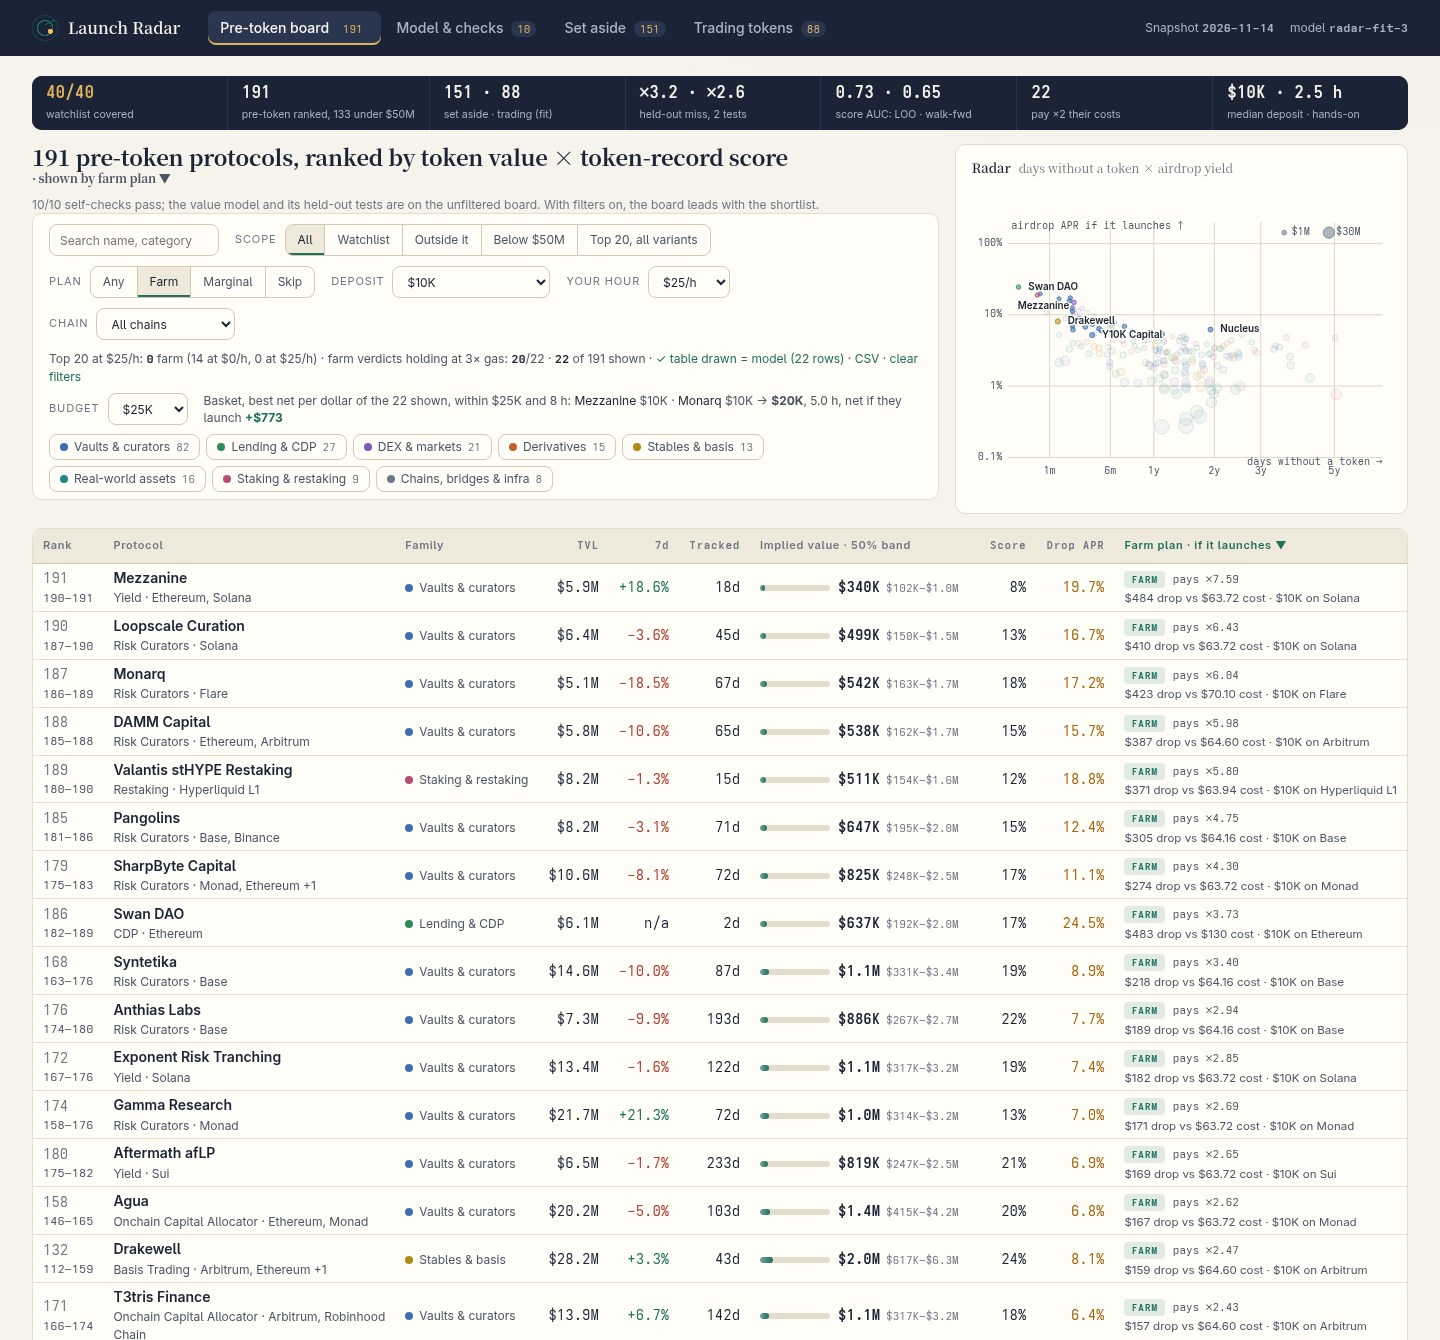
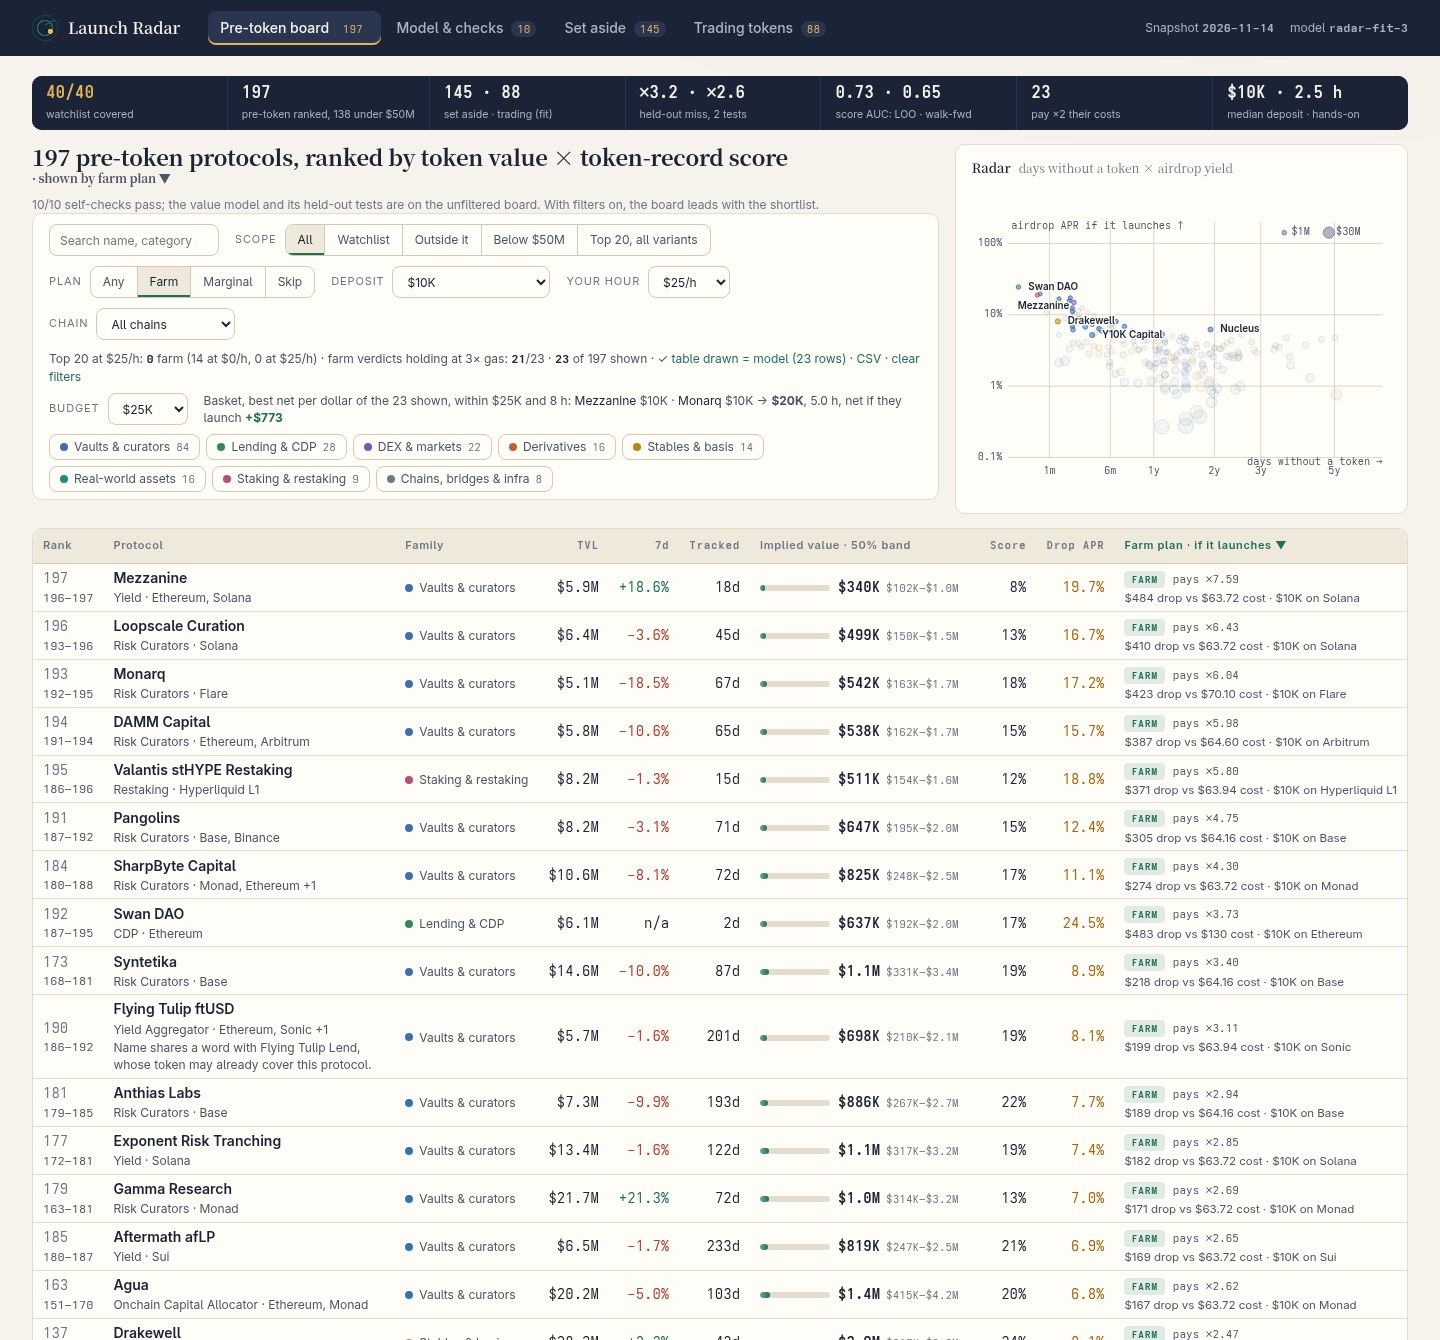
Coverage: rank first-word siblings of tokened protocols (our own rule, beyond the house rule) with a visible may-share-a-token flag; 197 ranked, 138 below the floor

Changed region(s): [[0.5, 0.7343, 0.9375, 1.0], [0.0312, 0.7343, 0.4688, 1.0], [0.4375, 0.2448, 0.625, 0.2754]]

diff --git a/dashboard/app.js b/dashboard/app.js
@@ -1,6 +1,4 @@
-/* Launch Radar. Audit route: (1) screen = board.json: model.js digest() hashes rank, name, value and every
-* plan step; the cover compares it on load. (2) termTests() scores each value term held out three ways.
-* (3) farmPlan() costs and times every step, kill test first. No launch dates, so no timing claim. */
+/* Launch Radar. The page checks the board digest and shows held-out model results. */
 (function () {
  'use strict';
  const R = window.RadarModel, S = window.SNAPSHOT, app = document.getElementById('app');
@@ -11,6 +9,7 @@
  const FAM = {}; R.FAMILIES.forEach((f) => { FAM[f[0]] = f[1]; });
  const bySlug = Object.create(null); rows.forEach((r) => { bySlug[r.p.slug] = r; });
  const esc = (s) => String(s).replace(/[&<>"']/g, (c) => ({ '&': '&amp;', '<': '&lt;', '>': '&gt;', '"': '&quot;', "'": '&#39;' })[c]);
+ const nameFlag = (r) => r.wordMatch ? `<small>Name shares a word with ${esc(r.wordMatch)}, whose token may already cover this protocol.</small>` : '';
  const pct = (x, d) => (x == null ? 'n/a' : (x > 0 ? '+' : x < 0 ? '−' : '') + Math.abs(x).toFixed(d == null ? 1 : d) + '%');
  const mult = (x) => '×' + (x >= 10 ? x.toFixed(1) : x >= 1 ? x.toFixed(2) : x.toFixed(3));
  const days = (d) => (d == null ? '?' : d >= 365 ? (d / 365).toFixed(1) + 'y' : d + 'd');
@@ -134,7 +133,7 @@
  const [flatT, spotT, sizeT] = fit.tests.terms;
  const nTr = S.protocols.filter((p) => p.mcap_usd > 0).length, nAll = rows.length + radar.products.length + nTr + radar.listed_only;
  const CHECKS = [
-  [nAll === S.protocols.length, `${nAll}/${S.protocols.length} protocols: ${rows.length} ranked, ${radar.products.length} set aside, ${nTr} trading (${fit.n} tokens), ${radar.listed_only} token without cap`],
+  [nAll === S.protocols.length, `${nAll}/${S.protocols.length} protocols: ${rows.length} ranked, ${radar.products.length} set aside, ${nTr} trading (${fit.n} in fit), ${radar.listed_only} with a token but no cap`],
   [S.watchlist.every((s) => bySlug[s]), `watchlist ${S.watchlist.filter((s) => bySlug[s]).length}/${S.watchlist.length} covered`],
   [rows.every((r, i) => r.rank === i + 1 && (!i || r.v.implied <= rows[i - 1].v.implied)), `ranks 1–${rows.length}, value never rising`],
   [rows.every((r) => r.p.gecko_id == null && r.p.symbol == null && r.p.mcap_usd == null), `${rows.length}/${rows.length} ranked rows record no token`],
@@ -171,7 +170,7 @@
    const w = Math.max(1.5, 100 * Math.sqrt(r.v.implied / maxImplied));
    return `<tr data-slug="${esc(r.p.slug)}" tabindex="0">
     <td class="rank">${r.rank}<small>${r.rlo}–${r.rhi}</small></td>
-    <td class="proto"><a href="${link({ p: r.p.slug })}">${esc(r.p.name)}</a>${r.watch ? '<span class="wl" title="On the snapshot watchlist">WL</span>' : ''}<small>${esc(r.p.category || 'Uncategorised')} · ${esc(r.p.chains.slice(0, 2).join(', '))}${r.p.chains.length > 2 ? ' +' + (r.p.chains.length - 2) : ''}</small></td>
+    <td class="proto"><a href="${link({ p: r.p.slug })}">${esc(r.p.name)}</a>${r.watch ? '<span class="wl" title="On the snapshot watchlist">WL</span>' : ''}<small>${esc(r.p.category || 'Uncategorised')} · ${esc(r.p.chains.slice(0, 2).join(', '))}${r.p.chains.length > 2 ? ' +' + (r.p.chains.length - 2) : ''}</small>${nameFlag(r)}</td>
     <td>${famChip(r.v.family)}</td>
     <td class="num">${usd(r.p.tvl_usd)}</td>
     <td class="num ${r.p.change_7d >= 0.05 ? 'up' : r.p.change_7d <= -0.05 ? 'down' : ''}">${pct(r.p.change_7d)}</td>
@@ -238,7 +237,7 @@
    <div class="rankbig"><small>Rank</small><b>${r.rank}</b><small>of ${rows.length}</small></div>
    <div><h1>${esc(p.name)}</h1>
     <p class="tags">${famChip(v.family)}<span class="tag">${esc(p.category || 'Uncategorised')}</span><span class="tag pre">No token on record</span>${r.watch ? '<span class="tag wlt">On the watchlist</span>' : '<span class="tag">Outside the watchlist</span>'}</p>
-    <p class="sub">${esc(p.chains.join(' · '))}${p.listed_at ? ` — tracked since ${esc(p.listed_at)}` : ' — no listing date on record'}</p></div>
+    <p class="sub">${esc(p.chains.join(' · '))}${p.listed_at ? ` — tracked since ${esc(p.listed_at)}` : ' — no listing date on record'}</p>${nameFlag(r)}</div>
    <div class="dval"><small>Implied token value</small><b>${usd(v.implied)}</b><small>50% band ${usd(v.low)} – ${usd(v.high)} · ${mult(v.multiple)} TVL</small><small>Rank ${r.rlo}–${r.rhi} in 80% of 40 bootstrap refits; top 20 in ${pc(r.boot)}</small><small>Rank #${r.rank}; ${Object.keys(r.alt).map((k) => `#${r.alt[k]} ${k}`).join(' · ')}</small></div>
   </section>
   <div class="dgrid">
@@ -288,8 +287,8 @@
   return `<section class="hero slim">${formula()}<div class="card checks"><h2>Self-checks <span>run in this page on load</span></h2><ul>${CHECKS.map(([ok, t]) => `<li class="${ok ? 'ok' : 'bad'}">${ok ? '✓' : '✗'} ${t}</li>`).join('')}</ul></div></section>`;
  }
  function aside() {
-  return `<section class="intro"><h1>${radar.products.length} products set aside, not ranked</h1>
-   <p>No token of their own, but each is a wrapped, bridged, staked or exchange product, a versioned pool or a likely sibling of a trading token (productOf, applied to every protocol); their value rides on that token's.</p></section>
+  return `<section class="intro"><h1>${radar.products.length} products set aside</h1>
+   <p>These protocols record no token and match the watchlist's category or product-name exclusions.</p></section>
    <div class="tablewrap">${tbl('board', ['Product', 'Why set aside', '#TVL', '#7d'], radar.products.map((x) => [nm(x.p.name, x.p.chains.slice(0, 3).join(', ')), `<span class="tag">${esc(x.kind)}</span>`, usd(x.p.tvl_usd), pct(x.p.change_7d)]))}</div>`;
  }
 

diff --git a/dashboard/model.js b/dashboard/model.js
@@ -1,15 +1,14 @@
-/* Launch Radar value model, run by main.ts (board.json) and by the page: every number on screen is
-* computed here from the snapshot. No protocol name appears in this file. */
+/* Launch Radar value model, shared by main.ts and the dashboard. */
 (function (root) {
  'use strict';
 
  var DAY = 86400000;
  var M = {
   version: 'radar-fit-3',
-  ref_tvl: 1e8, // the fit's reference size: $100M of TVL
-  ratio_floor: 0.02, // mcap/TVL outliers are clipped before the fit
+  ref_tvl: 1e8, // fit reference TVL
+  ratio_floor: 0.02, // mcap/TVL clipping
   ratio_cap: 20,
-  growth_floor: -30, // 7-day change used for momentum, clipped (per cent)
+  growth_floor: -30, // 7-day momentum clipping (%)
   growth_cap: 50,
   odds_ridge: 1, // L2 penalty of the odds fit: best-calibrated walk-forward of the leave-one-out ties
   drop_share: 0.10, // assumed share of supply sent to depositors, pro rata to TVL-days
@@ -41,20 +40,19 @@
  var VERSIONED = /\s(V\d+(\.\d+)?|v\d+(\.\d+)?|\d+\.\d+)$/;
  var WRAPPED = /\b(wrapped|staked|staking)\b/i;
  var EXCHANGE = /^(Binance|Coinbase|Bybit|Kraken|Bitget|OKX|Bitfinex|Gemini)\b/;
- // Plus likely siblings of a token holder.
+ // First-word matches flag possible token overlap on ranked rows.
  function firstWord(n) { return n.toLowerCase().split(/[\s.-]+/)[0]; }
  function tokenWords(snap) {
-  var w = {};
+  var w = Object.create(null);
   snap.protocols.forEach((p) => { if (hasToken(p) && firstWord(p.name).length >= 3) w[firstWord(p.name)] = p.name; });
   return w;
  }
- function productOf(p, words) {
+ function productOf(p) {
   if (p.category === 'CEX') return 'exchange';
   if (PRODUCT_CATS.indexOf(p.category) >= 0 || /bridge/i.test(p.category || '')) return p.category.toLowerCase();
   if (VERSIONED.test(p.name)) return 'versioned pool';
   if (WRAPPED.test(p.name)) return 'wrapped or staked';
   if (EXCHANGE.test(p.name)) return 'exchange product';
-  if (words && !hasToken(p) && Object.prototype.hasOwnProperty.call(words, firstWord(p.name))) return 'likely sibling of ' + words[firstWord(p.name)];
   return null;
  }
  function bySlug(a, b) { return a.slug < b.slug ? -1 : a.slug > b.slug ? 1 : 0; }
@@ -331,21 +329,21 @@
   return (head.length + tail.length > 600 ? head.slice(0, 597 - tail.length) + '...' : head) + tail;
  }
 
- /* The whole radar: the fit, the ranked pre-token board, and the trading set kept apart. */
+ // Fit the model and rank the board.
  function build(snap) {
   var fit = calibrate(snap);
   var watch = {};
   snap.watchlist.forEach((s) => { watch[s] = true; });
   var noToken = snap.protocols.filter((p) => !hasToken(p) && p.tvl_usd > 0);
   var words = tokenWords(snap);
-  var pre = noToken.filter((p) => watch[p.slug] || !productOf(p, words));
-  var products = noToken.filter((p) => !watch[p.slug] && productOf(p, words)).map((p) => ({ p: p, kind: productOf(p, words) }))
+  var pre = noToken.filter((p) => watch[p.slug] || !productOf(p));
+  var products = noToken.map((p) => ({ p: p, kind: productOf(p) })).filter((x) => x.kind && !watch[x.p.slug])
    .sort((a, b) => b.p.tvl_usd - a.p.tvl_usd || bySlug(a.p, b.p));
   var ages = pre.map((p) => ageDays(snap.as_of, p.listed_at)).filter((a) => a != null).sort((a, b) => a - b);
   var ageFallback = ages.length ? ages[ages.length >> 1] : 365;
   var rows = pre.map((p) => {
    var v = value(p, fit, snap.as_of, ageFallback);
-   return { p: p, v: v, plan: farmPlan(p, v), watch: !!watch[p.slug], below: p.tvl_usd < snap.floor_usd };
+   return { p: p, v: v, plan: farmPlan(p, v), watch: !!watch[p.slug], below: p.tvl_usd < snap.floor_usd, wordMatch: words[firstWord(p.name)] };
   });
   rows.sort((a, b) => b.v.implied - a.v.implied || bySlug(a.p, b.p));
   rows.forEach((r, i) => { r.rank = i + 1; });

diff --git a/main.ts b/main.ts
@@ -113,6 +113,6 @@ writeFileSync(join(out, 'dossier.json'), buildDossier(out, { text_max_bytes: 65_
 
 process.stdout.write(
   `launch radar: ${snapshot.protocols.length} protocols; fit on ${radar.fit.n} trading tokens (size elasticity ${(1 + radar.fit.slope).toFixed(2)}); ` +
-    `${rows.length} pre-token rows ranked, ${radar.products.length} wrapped/bridged/staked products set aside; watchlist ${snapshot.watchlist.length}/${snapshot.watchlist.length} covered\n` +
+    `${rows.length} pre-token rows ranked, ${radar.products.length} products set aside; watchlist ${snapshot.watchlist.length}/${snapshot.watchlist.length} covered\n` +
     `launch radar: wrote board.json, data.js, dashboard/ (${pages.length} files), screenshots/ (${shots.length}) and dossier.json to ${out}\n`,
 );
